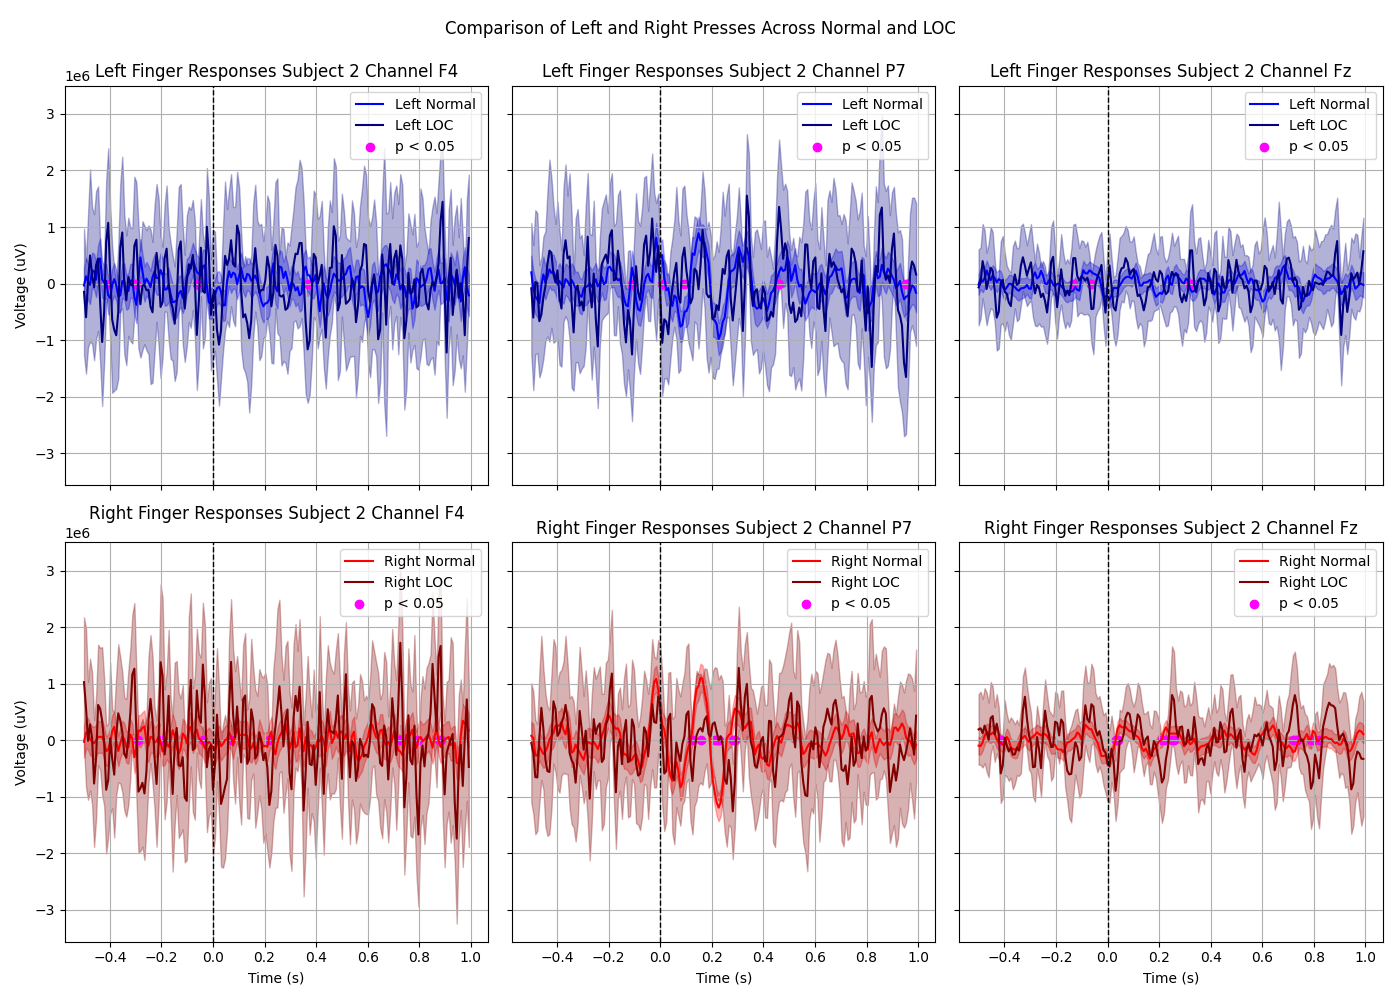
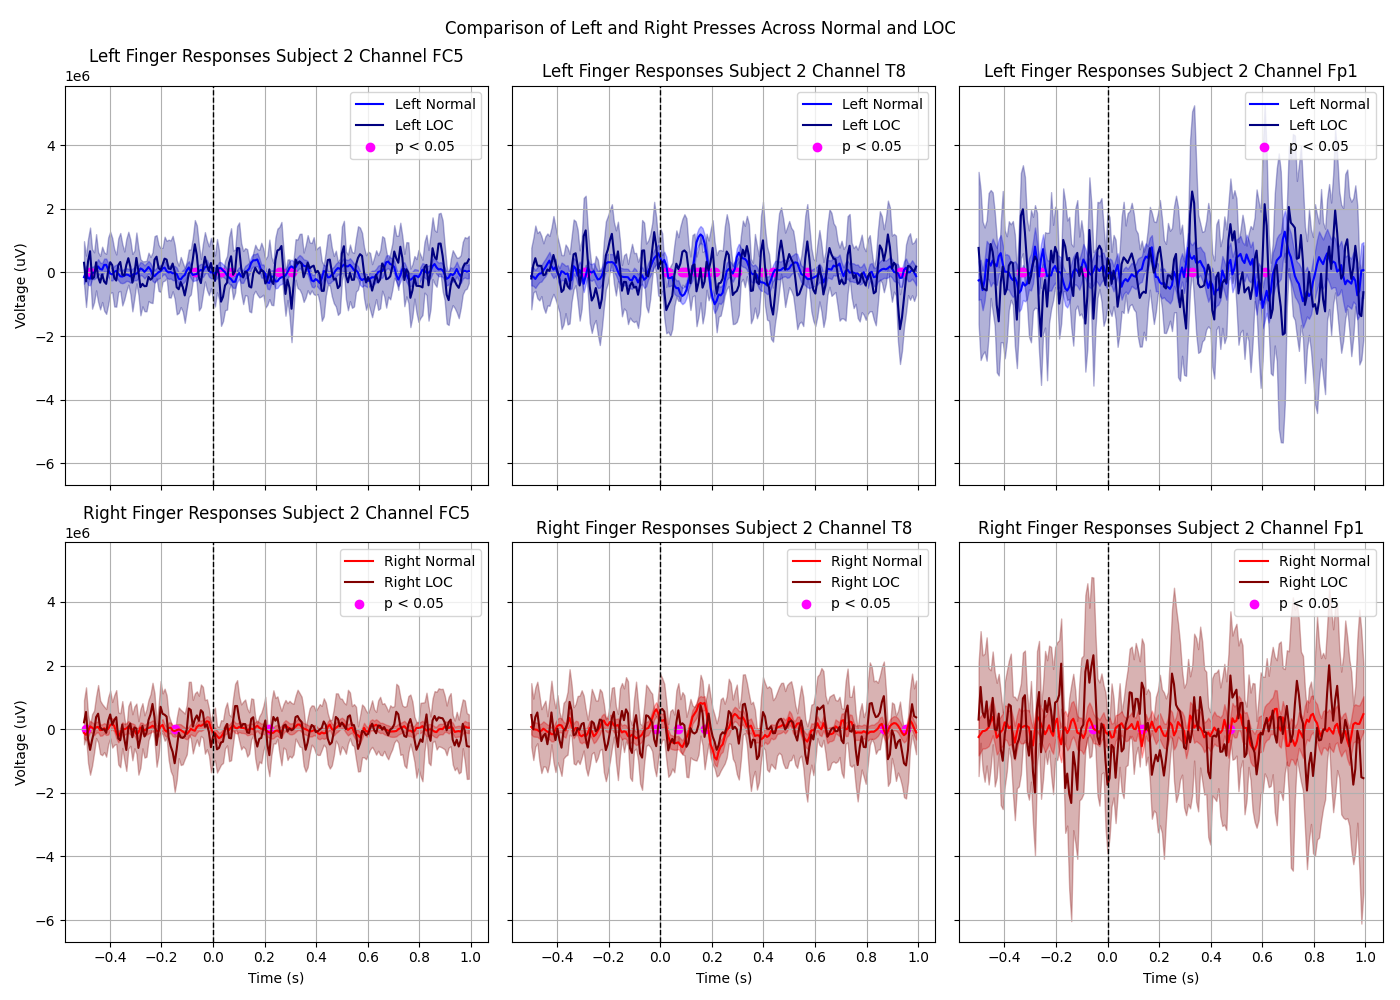
final code update

diff --git a/load_affpac_data.py b/load_affpac_data.py
@@ -220,6 +220,7 @@ def plot_epoch_data(eeg_epoch_normal, eeg_epoch_frustrated, epoch_time_array, ch
             plt.plot(epoch_time_array, eeg_epoch_frustrated[trial, channel_index, :], color='red', alpha=0.5)
 
     plt.legend()
+    channel_to_plot = ''.join(channel_to_plot)
     plt.title(f"Channel {channel_to_plot} Subject {subject}")
     plt.grid(True)
     plt.xlabel("Time (s)")
@@ -564,40 +565,40 @@ def plot_LOC(subject, time_data, left_finger_correct_epoch, left_finger_LOC_epoc
     ]
 
     for channel_index, channel_loc in enumerate(channels_to_plot):
-        for idx, (correct_epoch, LOC_epoch, title, side, correct_color, LOC_color) in enumerate(data_sets):
+        for plot_index, (correct_epoch, LOC_epoch, title, side, correct_color, LOC_color) in enumerate(data_sets):
             #get p values
             p_vals = calculate_bootstrap_pval(correct_epoch, LOC_epoch)
 
-            axs[idx,channel_index].grid(True)
+            axs[plot_index,channel_index].grid(True)
             correct_se = np.std(correct_epoch, axis=0) / np.sqrt(correct_epoch.shape[0])
             LOC_se = np.std(LOC_epoch, axis=0) / np.sqrt(LOC_epoch.shape[0])
 
-            axs[idx,channel_index].plot(time_data, np.mean(correct_epoch[:,channel_loc,:], axis=0), color=correct_color, label=f"{side} Normal")
+            axs[plot_index,channel_index].plot(time_data, np.mean(correct_epoch[:,channel_loc,:], axis=0), color=correct_color, label=f"{side} Normal")
             # plot CI normal
             upper_bound = np.mean(correct_epoch[:,channel_loc,:], axis=0) + correct_se[channel_loc,:] * 2
             lower_bound = np.mean(correct_epoch[:,channel_loc,:], axis=0) - correct_se[channel_loc,:] * 2
-            axs[idx,channel_index].fill_between(time_data, upper_bound, lower_bound, alpha=0.3, color=correct_color) 
+            axs[plot_index,channel_index].fill_between(time_data, upper_bound, lower_bound, alpha=0.3, color=correct_color) 
 
-            axs[idx,channel_index].plot(time_data, np.mean(LOC_epoch[:,channel_loc,:], axis=0), color=LOC_color, label=f"{side} LOC")
+            axs[plot_index,channel_index].plot(time_data, np.mean(LOC_epoch[:,channel_loc,:], axis=0), color=LOC_color, label=f"{side} LOC")
             # plot CI LOC
             upper_bound = np.mean(LOC_epoch[:,channel_loc,:], axis=0) + LOC_se[channel_loc,:] * 2
             lower_bound = np.mean(LOC_epoch[:,channel_loc,:], axis=0) - LOC_se[channel_loc,:] * 2
-            axs[idx,channel_index].fill_between(time_data, upper_bound, lower_bound, alpha=0.3, color=LOC_color) 
+            axs[plot_index,channel_index].fill_between(time_data, upper_bound, lower_bound, alpha=0.3, color=LOC_color) 
 
-            axs[idx,channel_index].set_title(title + f' Subject {subject} Channel {channels[channel_loc]}')
+            axs[plot_index,channel_index].set_title(title + f' Subject {subject} Channel {channels[channel_loc]}')
             plotted_first_p_val = False
             # mark locations where bootstrapping leads to a signif. p value 
             for p_val_index, p_val in enumerate(p_vals[channel_loc,:]):
                 if p_val < 0.05: 
                     if plotted_first_p_val ==False:
-                        axs[idx,channel_index].scatter(time_data[p_val_index], 0,  color="fuchsia", label = "p < 0.05")
+                        axs[plot_index,channel_index].scatter(time_data[p_val_index], 0,  color="fuchsia", label = "p < 0.05")
                         plotted_first_p_val = True
                     else:
-                        axs[idx,channel_index].scatter(time_data[p_val_index], 0,  color="fuchsia")
+                        axs[plot_index,channel_index].scatter(time_data[p_val_index], 0,  color="fuchsia")
 
-            axs[idx,channel_index].legend()
-            axs[idx,channel_index].axvline(x=0, linestyle='--', color='black', linewidth=1, label="Finger Press")
-            axs[idx,0].set_ylabel("Voltage (uV)")
+            axs[plot_index,channel_index].legend()
+            axs[plot_index,channel_index].axvline(x=0, linestyle='--', color='black', linewidth=1, label="Finger Press")
+            axs[plot_index,0].set_ylabel("Voltage (uV)")
 
             axs[1,channel_index].set_xlabel("Time (s)")
     # save plot 

diff --git a/test_affpac_data.py b/test_affpac_data.py
@@ -20,6 +20,8 @@ plt.close('all')
 
 #Build data file string
 data_directory='./BNCI_data/'
+
+
 for subject in [0, 1, 2, 4, 6, 7, 9, 10, 11]:
 
     channels, information_array, eeg_data, Y_data = afp.load_affpac_data(subject,data_directory)
@@ -33,9 +35,10 @@ for subject in [0, 1, 2, 4, 6, 7, 9, 10, 11]:
     filter_coefficients_band_pass=afp.make_bandpass_filter(low_cutoff,high_cutoff,filter_type,filter_order,fs)
     eeg_data=afp.filter_data(eeg_data,filter_coefficients_band_pass)
     time_data, left_finger_correct_epoch, left_finger_LOC_epoch, right_finger_correct_epoch, right_finger_LOC_epoch = afp.individual_press_epoch_eeg_data(eeg_data, Y_data, information_array, fs)
-    left_normal_LOC_channels = afp.check_channel_significance(left_finger_correct_epoch, left_finger_LOC_epoch)
-    # right_normal_LOC_channels = afp.check_channel_significance(right_finger_correct_epoch, right_finger_LOC_epoch, channels)
-    # left_normal_right_normal_channels =afp.check_channel_significance(right_finger_correct_epoch, left_finger_correct_epoch, channels)
+    left_normal_LOC_channels = afp.check_channel_significance(right_finger_correct_epoch, right_finger_LOC_epoch)
+
+    right_normal_LOC_channels = afp.check_channel_significance(right_finger_correct_epoch, right_finger_LOC_epoch)
+    left_normal_right_normal_channels =afp.check_channel_significance(right_finger_correct_epoch, left_finger_correct_epoch)
 
 
     afp.plot_LOC(subject, time_data, left_finger_correct_epoch, left_finger_LOC_epoch, right_finger_correct_epoch, right_finger_LOC_epoch, channels, left_normal_LOC_channels)
@@ -58,6 +61,4 @@ for subject in [0, 1, 2, 4, 6, 7, 9, 10, 11]:
     eeg_epochs_fft_normal,fft_frequencies=afp.get_frequency_spectrum(eeg_epoch_normal,fs)
     eeg_epochs_fft_frustrated,fft_frequencies=afp.get_frequency_spectrum(eeg_epoch_frustrated,fs)
     
-    # spectrum_db_normal,spectrum_db_frustrated=afp.plot_power_spectrum(eeg_epochs_fft_normal,eeg_epochs_fft_frustrated,fft_frequencies,channels,left_normal_LOC_channels,subject)
-
     afp.plot_after_button_press(eeg_epoch_normal, eeg_epoch_frustrated, normal_epoch_masks, frustrated_epoch_masks, epoch_time_array, Y_data, channels, subject, channel_to_plot=["Fz"], start_stop_time=[-1, 2], presses="first", separate_by_side=False)
